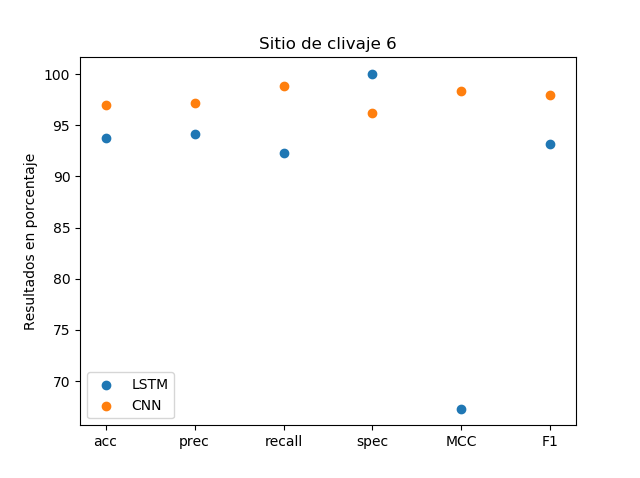
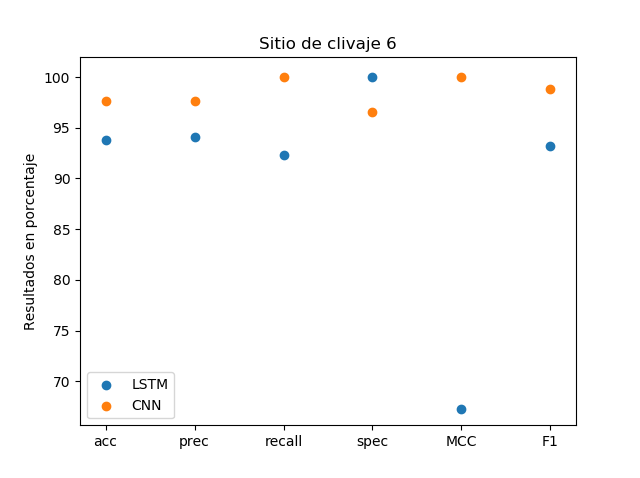
a

diff --git a/graficas/comparation.py b/graficas/comparation.py
@@ -1,12 +1,12 @@
 import numpy as np
 import matplotlib.pyplot as plt
-
-acc = [95.74074074]
-prec = [95.92105263]
-recall = [88.88888889]
-spec = [99.16666667]
-MCC = [83.58305674]
-F1 = [92.26967089]
+					
+acc = [93.75]
+prec = [94.11764706]
+recall = [92.30769231]
+spec = [100]
+MCC = [67.30769231]
+F1 = [93.2038835]
 
 																											
 									
@@ -18,21 +18,21 @@ first = ax.scatter(y,g, label='LSTM')
 
 					
 
-									
+												
 																										
-acc = [93.75]
-prec = [94.17101081]
-recall = [91.42857143]
-spec = [95]
-MCC = [86.84848967]
-F1 = [92.77952983]
+acc = [97.61904762]
+prec = [97.6744186]
+recall = [100]
+spec = [96.55172414]
+MCC = [100]
+F1 = [	98.82352941	]
 
 g = [acc,prec,recall,spec,MCC,F1]
 y = ["acc","prec","recall","spec","MCC","F1"]
 first = ax.scatter(y,g, label='CNN')
 
 ax.set_ylabel('Resultados en porcentaje')
-ax.set_title('Sitio de clivaje 1')
+ax.set_title('Sitio de clivaje 6')
 
 ax.legend()
 
